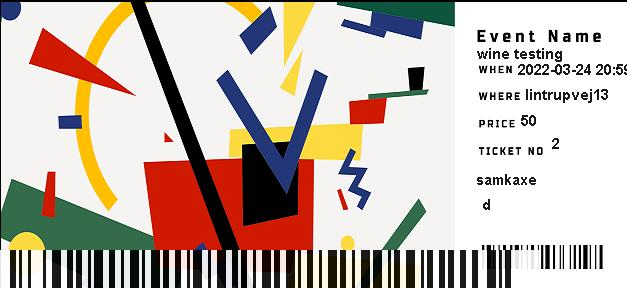
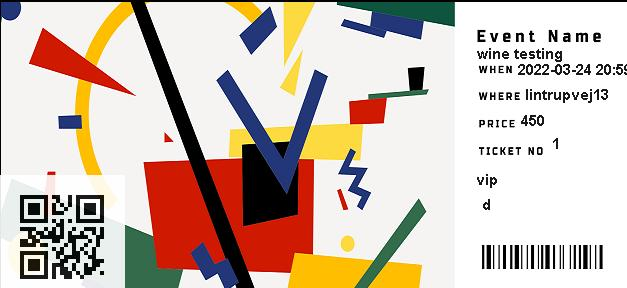
fixing QrCode

diff --git a/src/easv/GUI/Controller/EventInfoController.java b/src/easv/GUI/Controller/EventInfoController.java
@@ -31,6 +31,8 @@ import javafx.scene.image.ImageView;
 import javafx.scene.layout.*;
 import javafx.stage.Stage;
 import javafx.util.Duration;
+import net.glxn.qrgen.QRCode;
+import net.glxn.qrgen.image.ImageType;
 
 import javax.imageio.ImageIO;
 import javax.swing.*;
@@ -38,7 +40,9 @@ import java.awt.*;
 import java.awt.geom.Rectangle2D;
 import java.awt.image.BufferedImage;
 import java.awt.image.BufferedImageOp;
+import java.io.ByteArrayOutputStream;
 import java.io.File;
+import java.io.FileOutputStream;
 import java.io.IOException;
 import java.net.URL;
 import java.util.ResourceBundle;
@@ -149,14 +153,36 @@ public class EventInfoController implements Initializable {
                                     File input = new File("C:\\Users\\samkaxe\\Event_Management\\src\\resourse\\tickettemplate.png");
                                     File output = new File("C:\\Users\\samkaxe\\Event_Management\\src\\resourse\\newticket.jpg");
 
-                                    Linear barcodes = new Linear();
-                                    barcodes.setType(Linear.CODE128B);
-                                    barcodes.setData(userModel.getqr(user));
-                                    barcodes.setI(1);
+                                   // Linear barcodes = new Linear();
+                                  //  barcodes.setType(Linear.CODE128B);
+                                  //  barcodes.setData(userModel.getqr(user));
+                                  //  barcodes.setI(1);
+                                  //  BufferedImage  image2 = barcodes.renderBarcode();
 
-                                    BufferedImage  image2 = barcodes.renderBarcode();
 
-                                    addTixttoimage(image2 ,user.getUsername() , cntrl.selectedevent.getName() , cntrl.selectedevent.getStartevent().toString() , cntrl.selectedevent.getLocation(),t.getTicketprice(),t.getId(),t.getType() , "jpg" , input , output);
+                                    String name = "dany"; // event name and ticket name
+
+                                    ByteArrayOutputStream out = QRCode.from(name).to(ImageType.PNG).stream();
+
+                                    File f = new File("C:\\Users\\samkaxe\\Event_Management\\src\\resourse\\qrcode.png");
+
+                                    FileOutputStream fos = new FileOutputStream(f);
+
+                                    fos.write(out.toByteArray());
+
+                                    fos.flush();
+
+                                   Image image = new Image(String.valueOf(f));
+                                    BufferedImage img = null ;
+                                    try {
+                                         img = ImageIO.read(f);
+                                    } catch (IOException e) {
+                                        // TODO Auto-generated catch block
+                                        e.printStackTrace();
+                                    }
+
+
+                                    addTixttoimage(img ,user.getUsername() , cntrl.selectedevent.getName() , cntrl.selectedevent.getStartevent().toString() , cntrl.selectedevent.getLocation(),t.getTicketprice(),t.getId(),t.getType() , "jpg" , input , output);
                                     logintouser();
                                 } catch (Exception e) {
                                     e.printStackTrace();
@@ -243,7 +269,7 @@ public class EventInfoController implements Initializable {
         w.drawString(tickettype, 476, 185);
         w.drawString(String.valueOf(ticketid), 552, 149);
         w.drawString(text, 482, 210);
-        w.drawImage(image2, null, -20, 250);
+         w.drawImage(image2,null ,0, 175); //250
         ImageIO.write(bold, type, destination);
         w.dispose();
     }

diff --git a/src/easv/testedmain.java b/src/easv/testedmain.java
@@ -1,6 +1,7 @@
 package easv;
 
 
+import javafx.scene.image.Image;
 import net.glxn.qrgen.QRCode;
 import net.glxn.qrgen.image.ImageType;
 
@@ -11,9 +12,8 @@ import java.io.FileOutputStream;
 
 public class testedmain {
     public static void main(String[] args) throws Exception {
-        String name = "Diana ";
+        String name = "danylo";
         ByteArrayOutputStream out = QRCode.from(name).to(ImageType.PNG).stream();
-        //                                    File input = new File("C:\\Users\\samkaxe\\Event_Management\\src\\resourse\\tickettemplate.png");
         File f = new File("C:\\Users\\samkaxe\\Event_Management\\src\\resourse\\qrcode.png");
 
         FileOutputStream fos = new FileOutputStream(f);
@@ -21,6 +21,8 @@ public class testedmain {
             fos.write(out.toByteArray());
 
             fos.flush();
+       // Image image = new Image(String.valueOf(f));
+
 /*
         GridPane grid = new GridPane();
         grid.setHgap(10);
